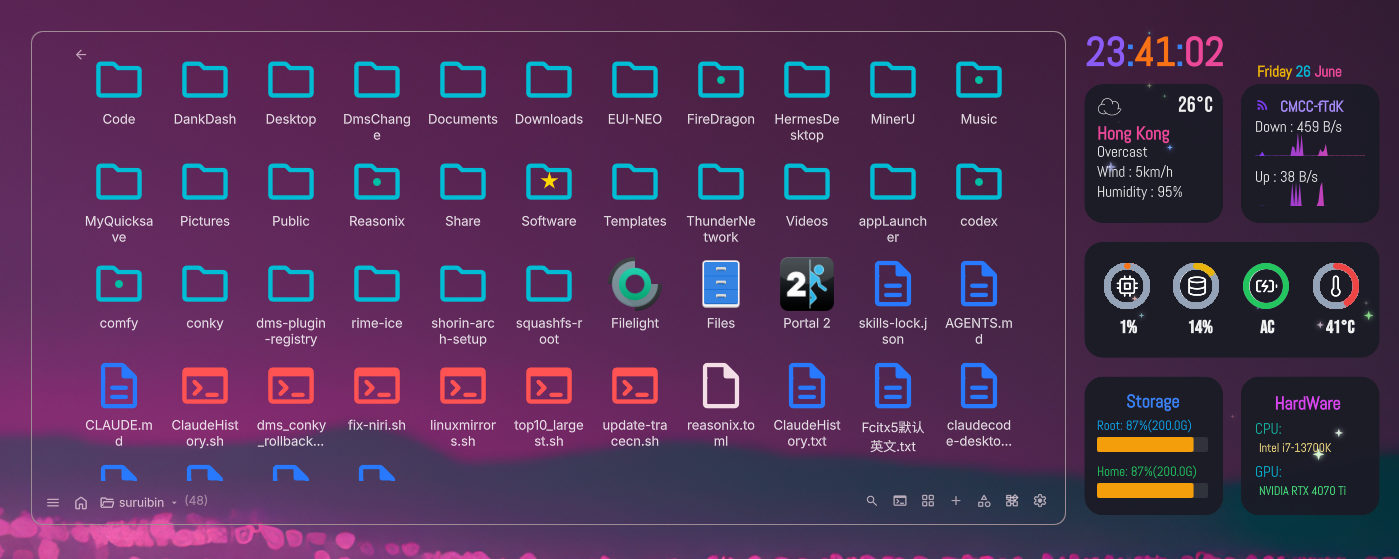
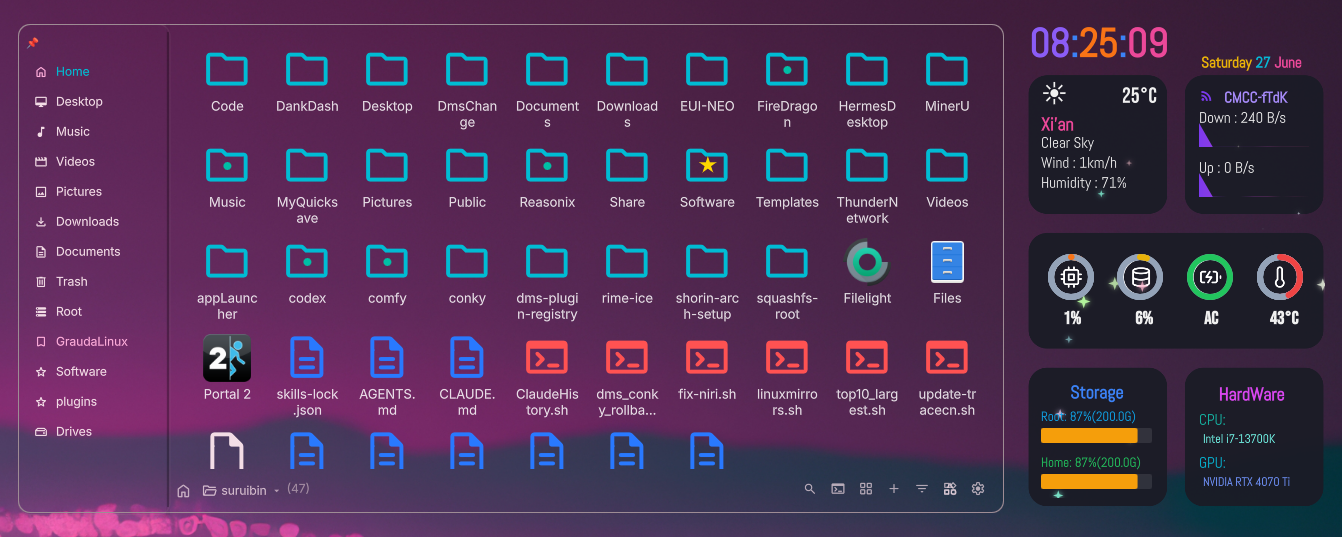
fix: move Space preview to Shortcut so focus drift no longer kills it

diff --git a/DmsFileManager.qml b/DmsFileManager.qml
@@ -365,15 +365,31 @@ DesktopPluginComponent {
     }
     Keys.priority: Keys.BeforeItem
     Keys.onPressed: event => {
-        if (event.key === Qt.Key_Space && root.selectedFilePaths.length === 1) {
-            event.accepted = true;
+        // Empty — Space is now handled by a Shortcut so it no longer depends
+        // on `keyHandler` having activeFocus. Previously focus drift after popup
+        // closes caused Space to silently stop working until a DMS restart.
+    }
+    // Space preview — Shortcut (focus-independent). Avoid "Space" string form
+    // because it conflicts with TextInput/search typing; using Qt.Key_Space via
+    // Keys.onPressed was the cause of the focus bug. Keep as Shortcut with the
+    // activeFocus guard so search/rename/preview-content typing still get space.
+    Shortcut {
+        sequences: ["Space"]
+        enabled: root.selectedFilePaths.length === 1
+                 && !headerSearchField.activeFocus
+                 && !previewPopup.opened
+                 && !renameDialog.opened
+                 && !createDialog.opened
+                 && !createAppDialog.opened
+                 && !createStackDialog.opened
+                 && !overwriteDialog.opened
+                 && !infoDialog.opened
+                 && !quickMenu.opened
+                 && !settingsDropdown.opened
+        onActivated: {
             if (root._previewBusy) {
-                // Stuck from previous failed open → clear and retry
+                // Stuck from a previous failed open → clear and retry
                 root._previewBusy = false;
-            }
-            if (previewPopup.opened) {
-                previewPopup.close();
-                return;
             }
             root._previewBusy = true;
             var path = root.selectedFilePaths[0];